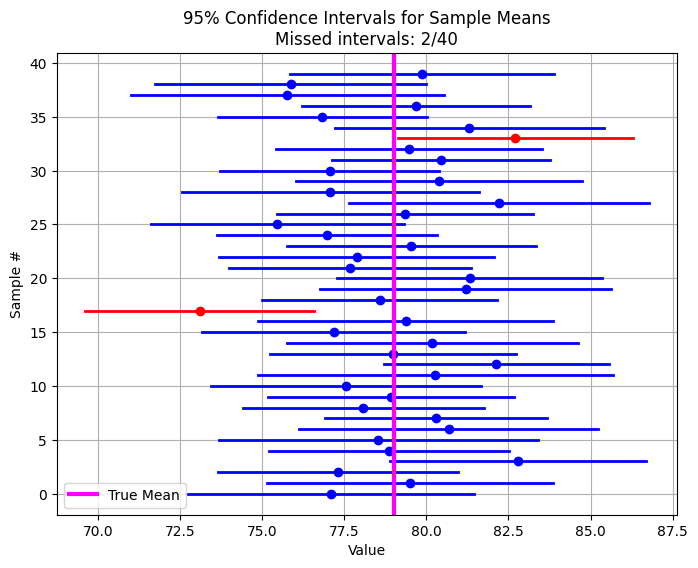
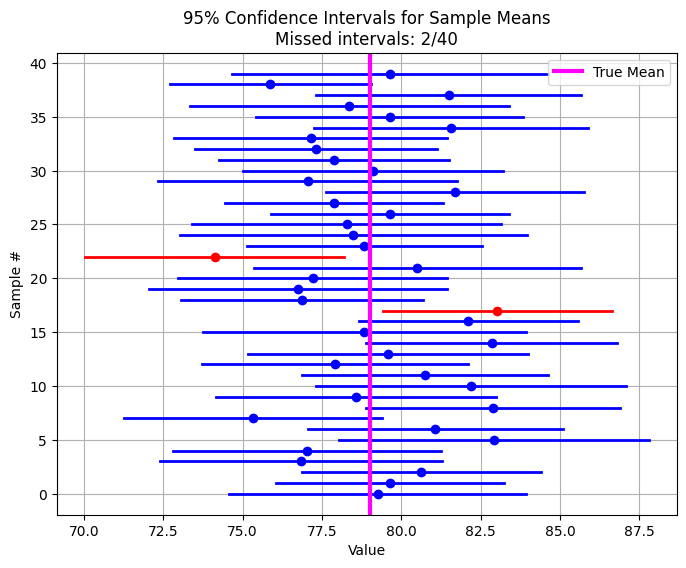
corrections

diff --git a/assm6_q2_student.py b/assm6_q2_student.py
@@ -2,7 +2,7 @@ import numpy as np
 import matplotlib.pyplot as plt
 from scipy.stats import norm
 
-def confidence_interval(N_samples=100, sample_size=30, true_mean=67, true_std=10, confidence=0.95):
+def confidence_interval(N_samples=40, sample_size=30, true_mean=79, true_std=11.85, confidence=0.95):
     """
     Demonstrates 95% confidence intervals for the mean.
     Parameters:
@@ -32,7 +32,7 @@ def confidence_interval(N_samples=100, sample_size=30, true_mean=67, true_std=10
 
         # WRITE_YOUR_CODE HERE TO COMPUTE SAMPLE MEAN, SAMPLE STANDARD ERROR, AND CI BOUNDS
         sample_mean = np.mean(sample)
-        sample_se = np.std(sample, ddof=1) / np.sqrt(sample_size)
+        sample_se = np.std(sample, ddof=1) / np.sqrt(sample_size-1)
 
         lower = sample_mean - z * sample_se
         upper = sample_mean + z * sample_se
